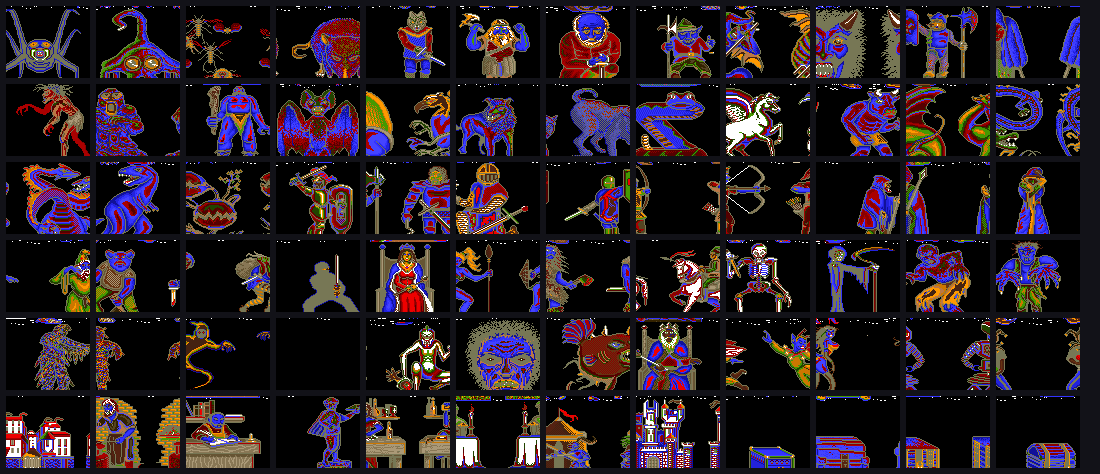
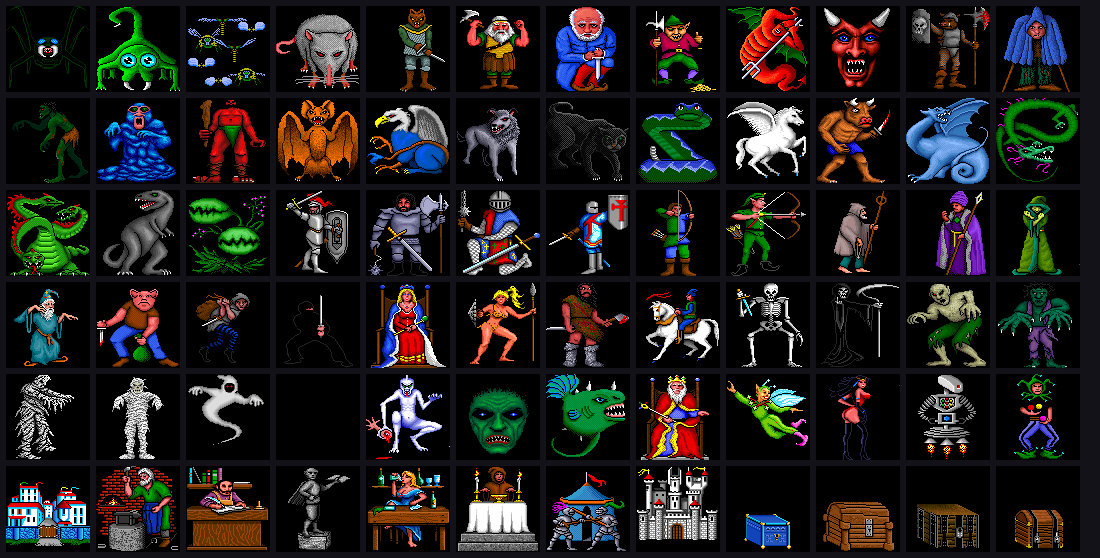
Amiga 怪物的調色盤：每個 .anm 自己就有
`.anm` 的本體是一個標準的 `.32` 容器 —— `body = 0x31 + d[0x30] − 1` 起
依序是 count、`count×6` 目錄、**64 bytes 調色盤**、才是 nibble RLE 像素。

這是從執行檔追出來的，不是掃出來的：`sub_33A18`（動畫載入）第一件事
就是把檔案交給 `sub_33322`，而那正是 `.32` 的解析器；`sub_33322` 讀檔時
把該檔的 64 bytes 填進送硬體的緩衝 `A4−0x4F0`（`sub_33ED2` 拿它呼叫
`LoadRGB4(viewport, 緩衝, 32)`），`sub_33A18` 接著只把 `0x12`–`0x1F`
從畫面現有的色表抄回來。所以一隻怪的顏色 ＝ 自己檔案裡的 `0x00`–`0x11`
＋ 場景的 `0x12`–`0x1F`，而 72 個檔的 `0x0C`–`0x11` 各不相同。

順帶解掉上一輪那條「頂端 14 列非影像資料」：**是像素起點算錯**，
早了六十幾個位元組，前十幾列就是目錄與調色盤被當成像素。起點對了
那條帶自己消失，`ANM_CROP` 這個裁切旋鈕也跟著拿掉。

`parse()` 加 `strict` 參數：尺寸下限是給掃描用的，`.anm` 的容器起點是
算出來的，而它的動畫零件小到 2×1；改用「首筆必須等於檔頭的 w/h」與
「調色盤 32 個字全部 12-bit 合法」把關，72 個檔全部通過。

diff --git a/tools/amiga32.py b/tools/amiga32.py
@@ -30,15 +30,23 @@ import struct
 import sys
 
 
-def parse(d: bytes):
-    """目錄就在檔頭，不必掃描。"""
+def parse(d: bytes, strict: bool = True):
+    """目錄就在檔頭，不必掃描。
+
+    `strict` 是給**掃描**用的尺寸下限（避免把任意資料讀成目錄）。
+    `.anm` 的容器起點是算出來的、不是掃出來的，而且它的動畫零件可以小到
+    2×1，所以那條路要 `strict=False` —— 它改用「首筆必須是 84×86」與
+    「調色盤 32 個字全部 12-bit 合法」把關，兩條都比尺寸下限硬。
+    """
     if len(d) < 4:
         return None
     count, second = struct.unpack_from(">HH", d, 0)
     if not 0 < count <= 200 or 4 + 6 * count + 64 > len(d):
         return None
     ent = [struct.unpack_from(">HHH", d, 4 + 6 * i) for i in range(count)]
-    if not all(8 <= w <= 400 and 4 <= h <= 300 for w, h, _ in ent):
+    if strict and not all(8 <= w <= 400 and 4 <= h <= 300 for w, h, _ in ent):
+        return None
+    if not all(0 < w <= 400 and 0 < h <= 300 for w, h, _ in ent):
         return None
     pal_at = 4 + 6 * count
     return {"dir": 4, "count": count, "field2": second, "entries": ent,
@@ -79,73 +87,66 @@ def images(d: bytes):
     return r, out
 
 
-def to_png(w: int, h: int, px: bytes, pal, path: str, scale: int = 2,
-           crop: int = 0):
-    """crop 是要從上緣裁掉幾列（`.anm` 頂端那條非影像資料，見 `anm`）。"""
+def to_png(w: int, h: int, px: bytes, pal, path: str, scale: int = 2):
     from PIL import Image
 
     bpr = (w + 15) // 16 * 2
-    im = Image.new("RGB", (w, h - crop), (255, 0, 255))
-    for y in range(crop, h):
+    im = Image.new("RGB", (w, h), (255, 0, 255))
+    for y in range(h):
         for x in range(w):
             v = 0
             for p in range(5):
                 k = (p * h + y) * bpr + x // 8
                 if k < len(px) and px[k] >> (7 - x % 8) & 1:
                     v |= 1 << p
-            im.putpixel((x, y - crop), pal[v])
+            im.putpixel((x, y), pal[v])
     im.resize((im.width * scale, im.height * scale), Image.NEAREST).save(path)
 
 
 def anm(d: bytes):
-    """解 `.anm`（怪物動畫）的基準影格。回傳 (w, h, 位元平面資料)。
+    """解 `.anm`（怪物動畫）。回傳 (w, h, 位元平面資料, 調色盤)。
 
-    容器與 `.32` 不同（`sub_19A30` 開檔後讀 48 bytes 標頭、1 byte 計數、
-    再讀 `計數−1` bytes 的動畫表），但**像素用同一套 nibble RLE**。
+    **`.anm` 的本體就是一個標準的 `.32` 容器，自帶 32 色調色盤。**
+    這件事是從 Amiga 執行檔追出來的，不是猜的：`sub_33A18`（動畫載入）
+    第一件事就是把檔案交給 `sub_33322` —— 而 `sub_33322` 正是 `.32` 的
+    解析器（讀 count、`count×6` 的目錄、64 bytes 調色盤）。
 
-        d[2], d[3]        影格寬高（72 個檔全部是 84×86）
-        0x31 + d[0x30]−1  像素起點
+    所以檔案版面是：
 
-    **調色盤不在檔案裡。** 12-bit 值域檢驗掃過整個 `.anm`（32 色與 15 色
-    兩種視窗都試過）都不通過；檔頭 `+4`…`+0x2F` 那 44 bytes 是十一組
-    `(x, y, w, h)` 的影格矩形，不是顏色。
+        0x00   uint8 w, h 在 +2/+3；+4…+0x2F 是十一組影格矩形
+        0x30   uint8 count
+        0x31   count−1 bytes 的動畫表      ← `sub_19A30` 讀到這裡為止
+        body   uint16 count, uint16 3      ← 從這裡開始是 `.32` 容器
+               count × (w, h, flags)
+               32 × uint16 調色盤
+               各影格的 nibble RLE 位元平面
 
-    **但怪物用調色盤的哪一段已經確定了**：場景檔（`cave`／`castle`／
-    `town`…）的 32 格裡，`0x16`–`0x1F` 是牆與地形、`0x00`–`0x02` 是
-    黑／白／紅、`0x12`–`0x15` 是高光，而 **`0x03`–`0x11` 整段是黑的** ——
-    那一段就是留給怪物在執行時填的。72 個 `.anm` 的索引直方圖相符：
-    用量集中在 0–18，19 以上加起來不到千分之三。
+    `body = 0x31 + d[0x30] − 1`。
 
-    **顏色本身還是假設，六個候選都畫過一遍，沒有一個對。** 只有
-    `book`／`endgame`／`intro`／`introclips`／`nwcp`／`throw` 這六個 `.32`
-    會替 `0x03`–`0x11` 上色。其中**只有 `endgame.32` 的 `0x16`–`0x1F`
-    與場景檔相同（7/10），其餘五個是 0/10** —— 戰鬥畫面上牆與怪物同時
-    在螢幕上，所以能與場景共存的只有它；但拿它畫出來整批怪物是藍的，
-    一樣不像。預設仍用 `book.32`（顏色分佈最有變化），標為**假設**。
+    ## 調色盤怎麼套上去
 
-    這兩條路也走過了，記下來不必重試：
+    `A4−0x4F0` 是實際送進硬體的 32 色緩衝（`sub_33ED2` 拿它呼叫
+    `LoadRGB4(viewport, 緩衝, 32)`）。`sub_33322` 讀檔時就把這個檔的
+    64 bytes 填進去，`sub_33A18` 接著**只把 `0x12`–`0x1F` 從畫面現有的
+    色表抄回來**（`move.w #$12,var` 起的迴圈），其餘不動。
 
-      - **位元平面反序**（plane 0 當 MSB）：索引會散到 0–31 全域，
-        原本那個「0–18 佔 99.7%」的乾淨集中會消失 —— 原序才對。
-      - **低四平面當顏色、第五平面當遮罩**：遮罩套上去會吃掉大半個怪物，
-        而且顏色查 `0x10`–`0x1F` 會得到整片牆色的綠與金。
+    所以一隻怪的顏色是：**自己檔案裡的 `0x00`–`0x11`** ＋ 場景的
+    `0x12`–`0x1F`。七十二個檔的 `0x12`–`0x1F` 完全相同（那段本來就會被
+    蓋掉），而 `0x03`–`0x11` 每個檔都不一樣 —— 那才是怪物的顏色。
 
-    要定案得追執行時是誰寫 `0x03`–`0x11`，那需要 Amiga 端的動態追蹤，
-    這個專案目前只有 DOSBox 與 BlastEm。
-
-    ## 頂端 14 列不是畫
-
-    72 個檔的第 0–13 列**每一列的非零像素都比怪物身體那幾列還多**，
-    而怪物是置中的、上緣本該稀疏；把起點前後各挪 40 bytes、或多解一段
-    再丟掉開頭，那條帶都不會消失 —— 所以它在資料裡，不是解碼參數的問題。
-    用途未定，總覽圖裁掉（`ANM_CROP`，預設 14）。
+    這同時解掉了先前那條「頂端 14 列雜訊」：像素不是從 `body` 開始，
+    是從 `body + 4 + count×6 + 64` 開始，早了六十幾個位元組。
     """
-    w, h = d[2], d[3]
-    if not (8 <= w <= 320 and 8 <= h <= 200):
+    body = 0x31 + d[0x30] - 1
+    r = parse(d[body:], strict=False)
+    if r is None or r["colors"] is None:
         return None
-    start = 0x31 + d[0x30] - 1
-    px, _ = unrle(d, start, h * ((w + 15) // 16) * 5)
-    return w, h, px
+    w, h, _ = r["entries"][0]
+    if (w, h) != (d[2], d[3]):
+        return None
+    bpw = (w + 15) // 16
+    px, _ = unrle(d, body + r["data"], h * bpw * 5)
+    return w, h, px, r["colors"]
 
 
 def palette(d: bytes, off: int, n: int = 32):
@@ -170,20 +171,17 @@ def main() -> None:
 
         outdir = sys.argv[2]
         os.makedirs(outdir, exist_ok=True)
-        palfile = os.environ.get("ANM_PAL", "workplace/amiga/book.32")
-        crop = int(os.environ.get("ANM_CROP", "14"))
         scale = int(os.environ.get("ANM_SCALE", "2"))
-        pal = parse(open(palfile, "rb").read())["colors"]
         n = 0
         for path in sys.argv[3:]:
             got = anm(open(path, "rb").read())
             if got is None:
                 print(f"{path}: 解不開")
                 continue
-            w, h, px = got
+            w, h, px, pal = got
             base = os.path.splitext(os.path.basename(path))[0]
             to_png(w, h, px, pal, os.path.join(outdir, f"{base}_{w}x{h}.png"),
-                   scale=scale, crop=crop)
+                   scale=scale)
             n += 1
         print(f"{n} 個 .anm 的基準影格")
         return

diff --git a/docs/research/02-other-platforms.md b/docs/research/02-other-platforms.md
@@ -213,30 +213,43 @@ RLE 只有兩條規則：
 的動畫表），但像素完全一樣。影格寬高在 `d[2]`／`d[3]`，72 個檔全部是 84×86 ——
 與 DOS `MONSTERS.16` 的基準影格尺寸相同。
 
-**調色盤不在 `.anm` 裡，而且方向與先前寫的相反。** 場景檔（`cave`／
-`castle`／`town`…）的 32 格是：`0x00`–`0x02` 黑／白／紅、`0x12`–`0x15`
-高光、**`0x16`–`0x1F` 才是牆與地形**，而 **`0x03`–`0x11` 整段是黑的** ——
-那一段是留給怪物在執行時填的。72 個 `.anm` 的索引直方圖與它相符：
-用量集中在 `0x00`–`0x12`，`0x13` 以上加起來不到千分之三。
+**`.anm` 的本體就是一個標準的 `.32` 容器，自帶 32 色調色盤。**
+這件事是從執行檔追出來的：`sub_33A18`（動畫載入）第一件事就是把檔案交給
+`sub_33322` —— 而 `sub_33322` 正是 `.32` 的解析器（讀 count、`count×6`
+的目錄、64 bytes 調色盤）。所以版面是：
 
-**顏色本身還沒定案，六個候選都畫過一遍，沒有一個對。** 只有 `book`／
-`endgame`／`intro`／`introclips`／`nwcp`／`throw` 六個 `.32` 會替
-`0x03`–`0x11` 上色；其中**只有 `endgame.32` 的 `0x16`–`0x1F` 與場景檔
-相同（7/10），其餘五個是 0/10** —— 戰鬥時牆與怪物同時在螢幕上，
-能與場景共存的只有它，但拿它畫出來整批怪物是藍的。總覽圖仍用
-`book.32`（顏色分佈最有變化），標為**假設**。
+	0x00   +2/+3 是 w/h；+4…+0x2F 是十一組影格矩形
+	0x30   uint8 count
+	0x31   count−1 bytes 的動畫表          ← `sub_19A30` 讀到這裡為止
+	body   uint16 count, uint16 3          ← 從這裡開始是 `.32` 容器
+	       count × (w, h, flags)
+	       32 × uint16 調色盤
+	       各影格的 nibble RLE 位元平面
 
-兩條走不通的路記下來不必重試：**位元平面反序**會讓索引散到 0–31 全域，
-把原本「`0x00`–`0x12` 佔 99.7%」的集中打散；**低四平面當顏色、第五平面
-當遮罩**則會吃掉大半個怪物，而且顏色查 `0x10`–`0x1F` 得到整片牆的綠與金。
-要定案得追執行時是誰寫 `0x03`–`0x11`，那需要 Amiga 端的動態追蹤。
+`body = 0x31 + d[0x30] − 1`，首筆目錄一律是 84×86。
 
-### `.anm` 頂端 14 列不是畫
+### 顏色怎麼套上去
 
-72 個檔的第 0–13 列**每一列的非零像素都比怪物身體那幾列多**，而怪物是
-置中的、上緣本該稀疏。把像素起點前後各挪 40 bytes、或多解一段再丟掉開頭，
-那條帶都不會消失 —— 它在資料裡，不是解碼參數的問題。用途未定，
-總覽圖裁掉（`tools/amiga32.py` 的 `ANM_CROP`，預設 14）。
+`A4−0x4F0` 是實際送進硬體的 32 色緩衝：`sub_33ED2` 拿它呼叫
+`LoadRGB4(viewport, 緩衝, 32)`（`-$7AD0(a4)` 那個 thunk，參數是
+`screen+0x2C`、緩衝、`0x20`）。`sub_33322` 讀檔時就把該檔的 64 bytes
+填進去，`sub_33A18` 接著**只把 `0x12`–`0x1F` 從畫面現有的色表抄回來**
+（`move.w #$12,var` 起、`cmpi.w #$20` 收尾的迴圈），其餘不動。
+
+所以一隻怪的顏色 ＝ **自己檔案裡的 `0x00`–`0x11`** ＋ 場景的 `0x12`–`0x1F`。
+七十二個檔的 `0x12`–`0x1F` 完全相同（那段本來就會被蓋掉），
+而 `0x03`–`0x11` 每個檔都不一樣 —— 那才是怪物的顏色。前三格固定是
+`000`／`FFF`／`E00`（透空、白、紅），與場景檔一致。
+
+這同時解掉了「頂端 14 列雜訊」：像素不是從 `body` 開始，是從
+`body + 4 + count×6 + 64` 開始，早了六十幾個位元組，解出來的前十幾列
+就是目錄與調色盤被當成像素。**那不是需要裁掉的帶，是起點算錯。**
+
+> 找法值得記一筆：先前在 `.anm` 裡掃 32 色與 15 色的 12-bit 視窗、
+> 在執行檔裡掃長串合法色值、拿六個 `.32` 的調色盤逐一試畫，全部落空。
+> 真正有效的一步是**追誰寫那個送進硬體的緩衝** —— 從
+> `LoadRGB4` 的 thunk 往回找到 `sub_33ED2` → `A4−0x4F0` → `sub_33322`。
+> 掃資料找不到的東西，去程式碼裡找誰寫它。
 
 `globe.32` 例外：它是防拷貝轉盤，
 讀進來之後先用 `A4−0x7675` 那把 **5 bytes 的循環金鑰逐位元組 XOR**

diff --git a/CONTEXT.md b/CONTEXT.md
@@ -280,7 +280,8 @@ LSEEK 過去。**地圖號直接索引，中間沒有轉換。**
 
 | 曾經寫過 | 實際 | 怎麼發現的 |
 |---|---|---|
-| Amiga 場景檔的 32 格「只有前 16 格有色，後 16 格是黑的」，怪物調色盤在後半；`throw.32` 畫出來的顏色是對的 | **方向相反**：`0x16`–`0x1F` 才是牆與地形，`0x03`–`0x11` 整段留黑，那一段才是給怪物的（72 個 `.anm` 的索引用量正好集中在 `0x00`–`0x12`）。`throw.32` 是一條紅色漸層，六個會替該段上色的候選沒有一個畫出來像 | 逐檔印出 32 格的實際值，再對索引直方圖。**「哪一半有色」用看的會看反，要把值印出來數** |
+| Amiga 怪物的調色盤「不在 `.anm` 裡」，要另外找一個 `.32` 借；場景檔「只有前 16 格有色」 | **每個 `.anm` 自帶調色盤** —— 它的本體就是標準的 `.32` 容器（`body = 0x31 + d[0x30] − 1` 起：count、`count×6` 目錄、64 bytes 調色盤、才是像素）。一隻怪的顏色是自己檔案裡的 `0x00`–`0x11` ＋ 場景的 `0x12`–`0x1F`。場景檔也是後半有色不是前半 | 掃資料全部落空（`.anm` 內掃 32 色與 15 色視窗、執行檔內掃長串合法色值、六個 `.32` 逐一試畫）。有效的一步是**追誰寫那個送進硬體的緩衝**：`LoadRGB4` 的 thunk → `sub_33ED2` → `A4−0x4F0` → `sub_33322`。**掃資料找不到的東西，去程式碼裡找誰寫它** |
+| `.anm` 頂端 14 列是「用途未定的非影像資料」，總覽圖要裁掉 | **是像素起點算錯**：像素從 `body + 4 + count×6 + 64` 開始，先前從 `body` 開始，早了六十幾個位元組，前十幾列就是目錄與調色盤被當成像素 | 起點對了之後那條帶自己消失。**「這段資料用途未定」在起點沒被獨立驗證之前，先懷疑起點** |
 | Mega Drive 的圖形區塊只是還沒排對，換個寬度就會變成圖 | **重排救不回來**：所有能整除 tile 數的寬度、直排與橫排、1×1 到 4×4 的 sprite 分組全掃過，接縫連續度最好只到 1.25。tile 是去重過的，畫面要靠 nametable | 把「接縫處的像素差 ÷ tile 內部的像素差」當分數做窮舉。**下「排不出來」這種結論前要先把參數空間掃完，否則與「我沒試對」分不開** |
 | MSX 深度 2、3 的正牆貼圖在 `sub_1F4D`／`sub_1FF9`／`sub_1E16` 裡，要拆開得逐條追呼叫端 | **正牆四個深度全在 `sub_1103`**：`HL` 是深度、`DE` 是橫向索引，最左最右兩支畫側牆、其餘那一支畫正牆，目的 x 是 `35n+49`／`14n+63`，`n=0` 正好置中。`sub_1F4D`／`sub_1FF9` 是**側牆**的繪製函式 | 看呼叫端 `sub_4752`：牆值 `1` 只呼叫 `sub_1F4D`、`2` 再加 `sub_D10`（側牆的門）、`3` 再加 `sub_1956`（側火炬）—— 配件早就標定是側牆的。**推測某支函式畫什麼之前，先看誰呼叫它、跟誰一起呼叫** |
 | `1MENU1.OVL` 尾端多出的 16 bytes 推測是重定位資料 | **是程式碼加零填充**：`0xD90` 起是一段連貫的 DOS 收尾（設中斷向量 → 釋放記憶體 → 一串 `pop` → `retn`），橫跨 `0xDA0` 那條界線。所以描述表的大小欄位不是讀取長度，而「`+0x02` 是重定位項數」也失去唯一佐證，退回未知 | 直接讀那 16 bytes：`58 1F 5F 5E 5D C3` 後面接 10 個 0。**推測資料的用途之前先把位元組讀出來** —— 那六個位元組是誰都認得的函式收尾 |
